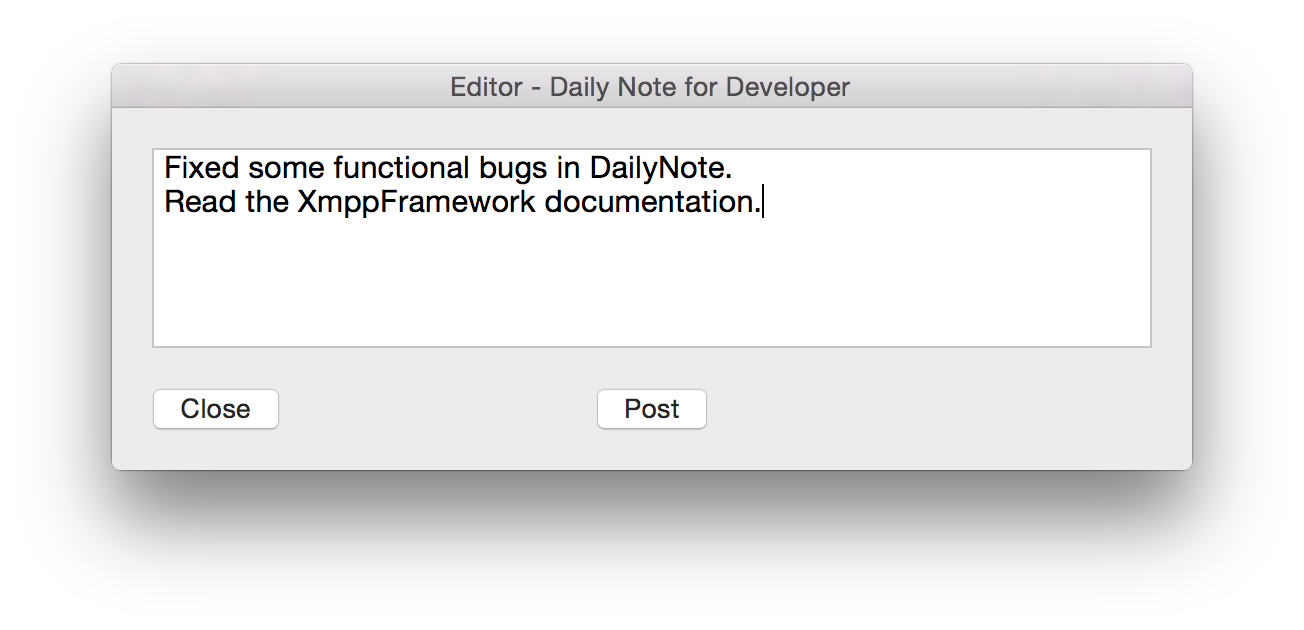
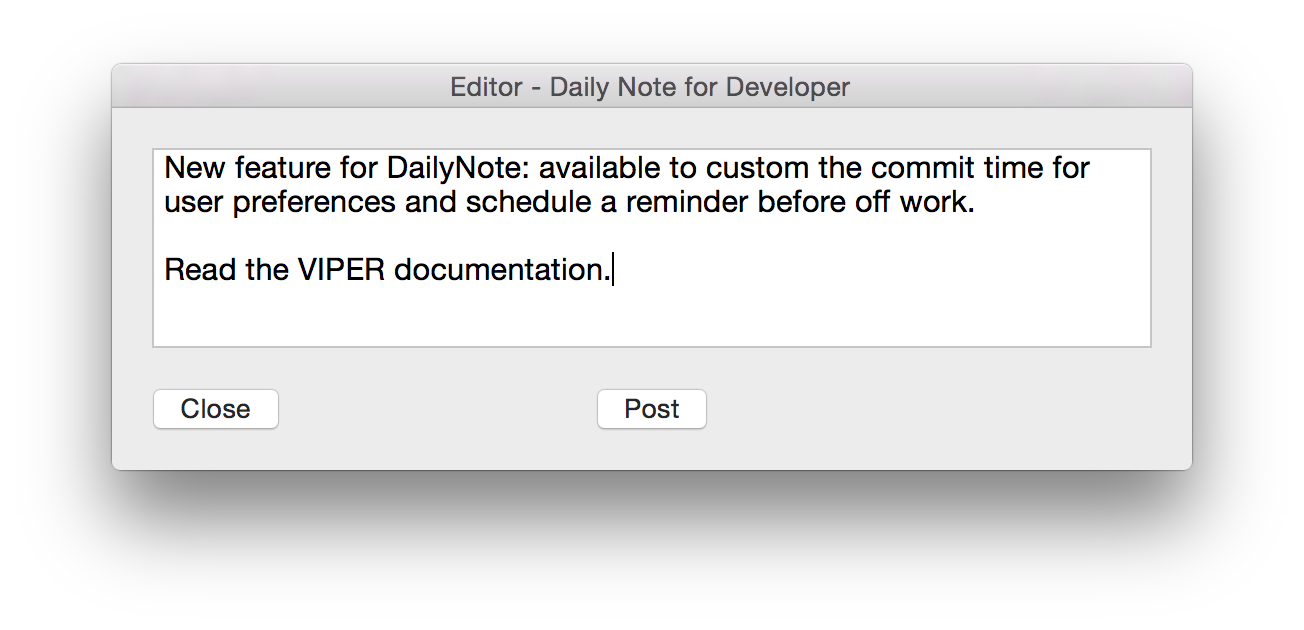
Updated the descriptions and screenshot for new version.

Changed region(s): [[0.1227, 0.2413, 0.8282, 0.3619], [0.1227, 0.3921, 0.4908, 0.4524]]

diff --git a/README.md b/README.md
@@ -24,9 +24,10 @@
 
 ### When
 
-> 1. When to write note changes to file? It’s 23:59:59 everyday.
+> 1. When to write note changes to file? ~~It’s 23:59:59 everyday~~. It's up to you, open Preferences window, just give it your after work time.
 > 2. When to do commits to git repository? Same as above.
-> 3. When to push commit to remote git repository? Not yet. Implementation is coming soon!
+> 3. A reminder there? Yes, this is a new feature after version 1.0.4, just make sure the reminder option in Preferences checked. It will remind you to write daily note before 5 minutes when committing every day.
+> 4. When to push commit to remote git repository? Not yet. Implementation is coming soon!
 
 
 
